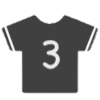
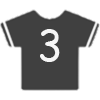
button pics updated

Changed region(s): [[0.0, 0.09, 1.0, 0.96], [0.39, 0.27, 0.6, 0.72]]

diff --git a/templates/step2.html b/templates/step2.html
@@ -66,14 +66,14 @@
                             <input class="list-group-item-check" type="radio" name="hair_style" id="hair_style_1"
                                 value="" checked>
                             <label class="list-group-item" for="hair_style_1" />
-                                <img src="../static/images/option_1-removebg-preview.png" class="img">
+                                <img src="../static/images/hair_style_1.png" class="img">
                             </label>
                         </li>
                         <li>
                             <input class="list-group-item-check" type="radio" name="hair_style" id="hair_style_2"
                                 value="">
                             <label class="list-group-item" for="hair_style_2">
-                                <img src="../static/images/option%202.png" class="img">
+                                <img src="../static/images/hair_style_2.png" class="img">
                             </label>
                         </li>
                     </ul>
@@ -85,8 +85,7 @@
                             <input class="list-group-item-check" type="radio" name="clothing_style"
                                 id="clothing_style_1" value="" checked>
                             <label class="list-group-item" for="clothing_style_1" />
-                            <img src="../static/images/clothing_style_1.png" class="img">
-                            <div class="bottom_text">clothing style 1</div>
+                                <img src="../static/images/clothing_style_1.png" class="img">
                             </label>
                         </li>
                         <li>
@@ -94,8 +93,6 @@
                                 id="clothing_style_2" value="">
                             <label class="list-group-item" for="clothing_style_2">
                                 <img src="../static/images/clothing_style_2.png" class="img">
-                                <div class="bottom_text">clothing style 2</div>
-
                             </label>
                         </li>
 
@@ -112,8 +109,7 @@
                                 value="Hair, /static/new_model/{{ basic_model }}/model1/option1_texture/_16.png"
                                 checked>
                             <label class="list-group-item" for="hair_colour_1" />
-                            <img src="../static/images/hair_colour_1.png" class="img">
-                            <div class="bottom_text">hair colour 1</div>
+                                <img src="../static/images/hair_colour_1.png" class="img">
                             </label>
                         </li>
                         <li>
@@ -121,8 +117,6 @@
                                 value="Hair, /static/new_model/{{ basic_model }}/model1/option2_texture/_16.png">
                             <label class="list-group-item" for="hair_colour_2">
                                 <img src="../static/images/hair_colour_2.png" class="img">
-                                <div class="bottom_text">hair colour 2</div>
-
                             </label>
                         </li>
                         <li>
@@ -130,8 +124,6 @@
                                 value="Hair, /static/new_model/{{ basic_model }}/model1/option3_texture/_16.png">
                             <label class="list-group-item" for="hair_colour_3">
                                 <img src="../static/images/hair_colour_3.png" class="img">
-                                <div class="bottom_text">hair colour 3</div>
-
                             </label>
                         </li>
                     </ul>
@@ -144,8 +136,7 @@
                                 value="Tops, /static/new_model/{{ basic_model }}/model1/option1_texture/_15.png"
                                 checked>
                             <label class="list-group-item" for="top_1" />
-                            <img src="../static/images/top_colour_1.png" class="img">
-                            <div class="bottom_text">top colour 1</div>
+                                <img src="../static/images/top_colour_1.png" class="img">
                             </label>
                         </li>
                         <li>
@@ -153,8 +144,6 @@
                                 value="Tops, /static/new_model/{{ basic_model }}/model1/option2_texture/_15.png">
                             <label class="list-group-item" for="top_2">
                                 <img src="../static/images/top_colour_2.png" class="img">
-                                <div class="bottom_text">top colour 2</div>
-
                             </label>
                         </li>
                         <li>
@@ -162,8 +151,6 @@
                                 value="Tops, /static/new_model/{{ basic_model }}/model1/option3_texture/_15.png">
                             <label class="list-group-item" for="top_3">
                                 <img src="../static/images/top_colour_3.png" class="img">
-                                <div class="bottom_text">top colour 3</div>
-
                             </label>
                         </li>
                     </ul>
@@ -176,8 +163,7 @@
                                 value="Bottoms, /static/new_model/{{ basic_model }}/model1/option1_texture/_13.png"
                                 checked>
                             <label class="list-group-item" for="bot_1" />
-                            <img src="../static/images/bot_colour_1.png" class="img">
-                            <div class="bottom_text">bot colour 1</div>
+                                <img src="../static/images/bot_colour_1.png" class="img">
                             </label>
                         </li>
                         <li>
@@ -185,8 +171,6 @@
                                 value="Bottoms, /static/new_model/{{ basic_model }}/model1/option2_texture/_13.png">
                             <label class="list-group-item" for="bot_2">
                                 <img src="../static/images/bot_colour_2.png" class="img">
-                                <div class="bottom_text">bot colour 2</div>
-
                             </label>
                         </li>
                         <li>
@@ -194,8 +178,6 @@
                                 value="Bottoms, /static/new_model/{{ basic_model }}/model1/option3_texture/_13.png">
                             <label class="list-group-item" for="bot_3">
                                 <img src="../static/images/bot_colour_3.png" class="img">
-                                <div class="bottom_text">bot colour 3</div>
-
                             </label>
                         </li>
 
@@ -209,8 +191,7 @@
                                 value="Body_00, /static/new_model/{{ basic_model }}/model1/option1_texture/_10.png,Face_00, /static/new_model/{{ basic_model }}/model1/option1_texture/_04.png"
                                 checked>
                             <label class="list-group-item" for="skin_colour_1" />
-                            <img src="../static/images/skin_colour_1.png" class="img">
-                            <div class="bottom_text">skin colour 1</div>
+                                <img src="../static/images/skin_colour_1.png" class="img">
                             </label>
                         </li>
                         <li>
@@ -218,8 +199,6 @@
                                 value="Body_00, /static/new_model/{{ basic_model }}/model1/option2_texture/_10.png,Face_00, /static/new_model/{{ basic_model }}/model1/option2_texture/_04.png">
                             <label class="list-group-item" for="skin_colour_2">
                                 <img src="../static/images/skin_colour_2.png" class="img">
-                                <div class="bottom_text">skin colour 2</div>
-
                             </label>
                         </li>
                         <li>
@@ -227,8 +206,6 @@
                                 value="Body_00, /static/new_model/{{ basic_model }}/model1/option3_texture/_10.png,Face_00,  /static/new_model/{{ basic_model }}/model1/option3_texture/_04.png">
                             <label class="list-group-item" for="skin_colour_3">
                                 <img src="../static/images/skin_colour_3.png" class="img">
-                                <div class="bottom_text">skin colour 3</div>
-
                             </label>
                         </li>
                     </ul>

diff --git a/static/css/step2.css b/static/css/step2.css
@@ -62,19 +62,16 @@ body {
     /*cursor: pointer;*/
 }
 
-
-
-.bottom_text {
-
-    font-size: 10px;
-}
-
-
 .right img {
-    width: 50px;
-    height: 50px;
+    width: 40px;
+    height: 40px;
     border-radius: 10px;
     object-fit: cover;
+
+    position: relative;
+    margin-top: 1px;
+    margin-left: 5px;
+    margin-bottom: 3px;
 }
 
 ul {
@@ -85,7 +82,7 @@ ul {
 ul li {
     display: inline-block;
     margin-right: 10px;
-    width: 120px;
+    width: 80px;
 }
 
 hr {
